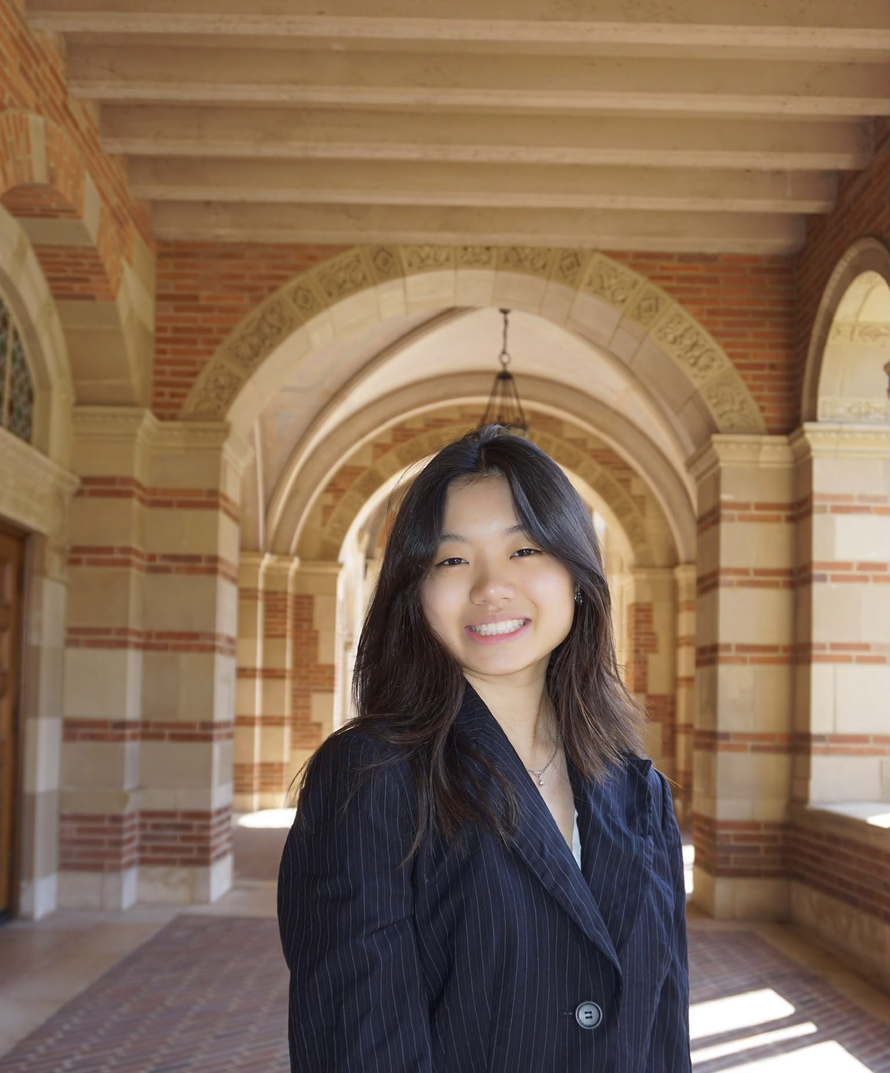
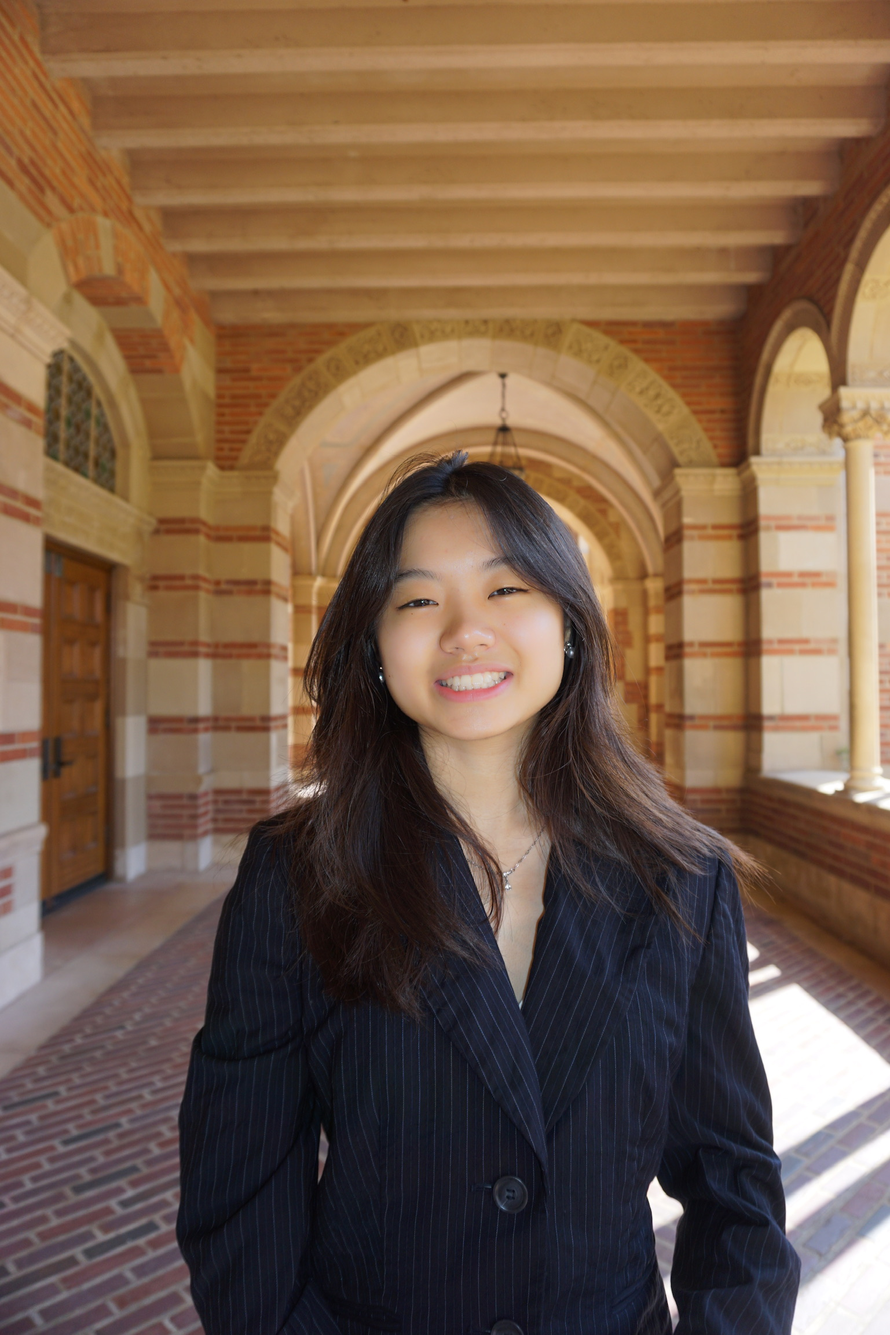
add new headshot for adirenn

diff --git a/bss-web/src/pages/TeamPage/people.js b/bss-web/src/pages/TeamPage/people.js
@@ -1,5 +1,5 @@
 import EthanHuang from "./Headshots/Ethan_Huang.jpg";
-import AdrienneLee from "./Headshots/Adrienne_Lee.jpg";
+import AdrienneLee from "./Headshots/Adrienne_Lee.JPG";
 import GiselleCarlos from "./Headshots/Giselle_Carlos.jpg";
 import CalebChor from "./Headshots/Caleb_Chor.jpg";
 import KimberlyCui from "./Headshots/Kimberly_Cui.JPEG";
